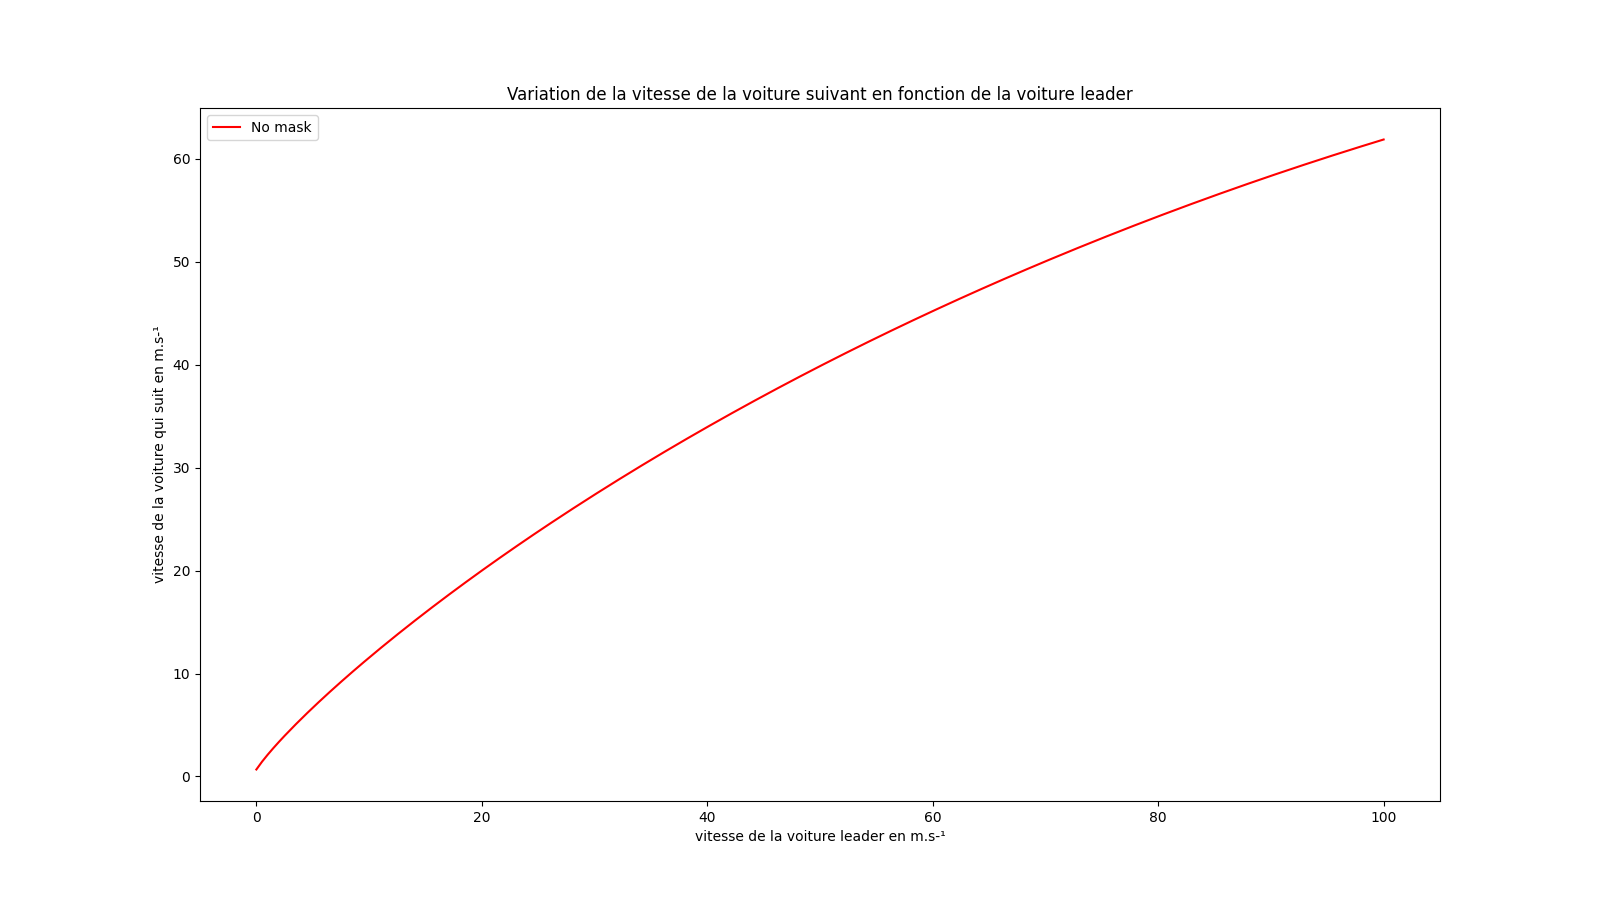
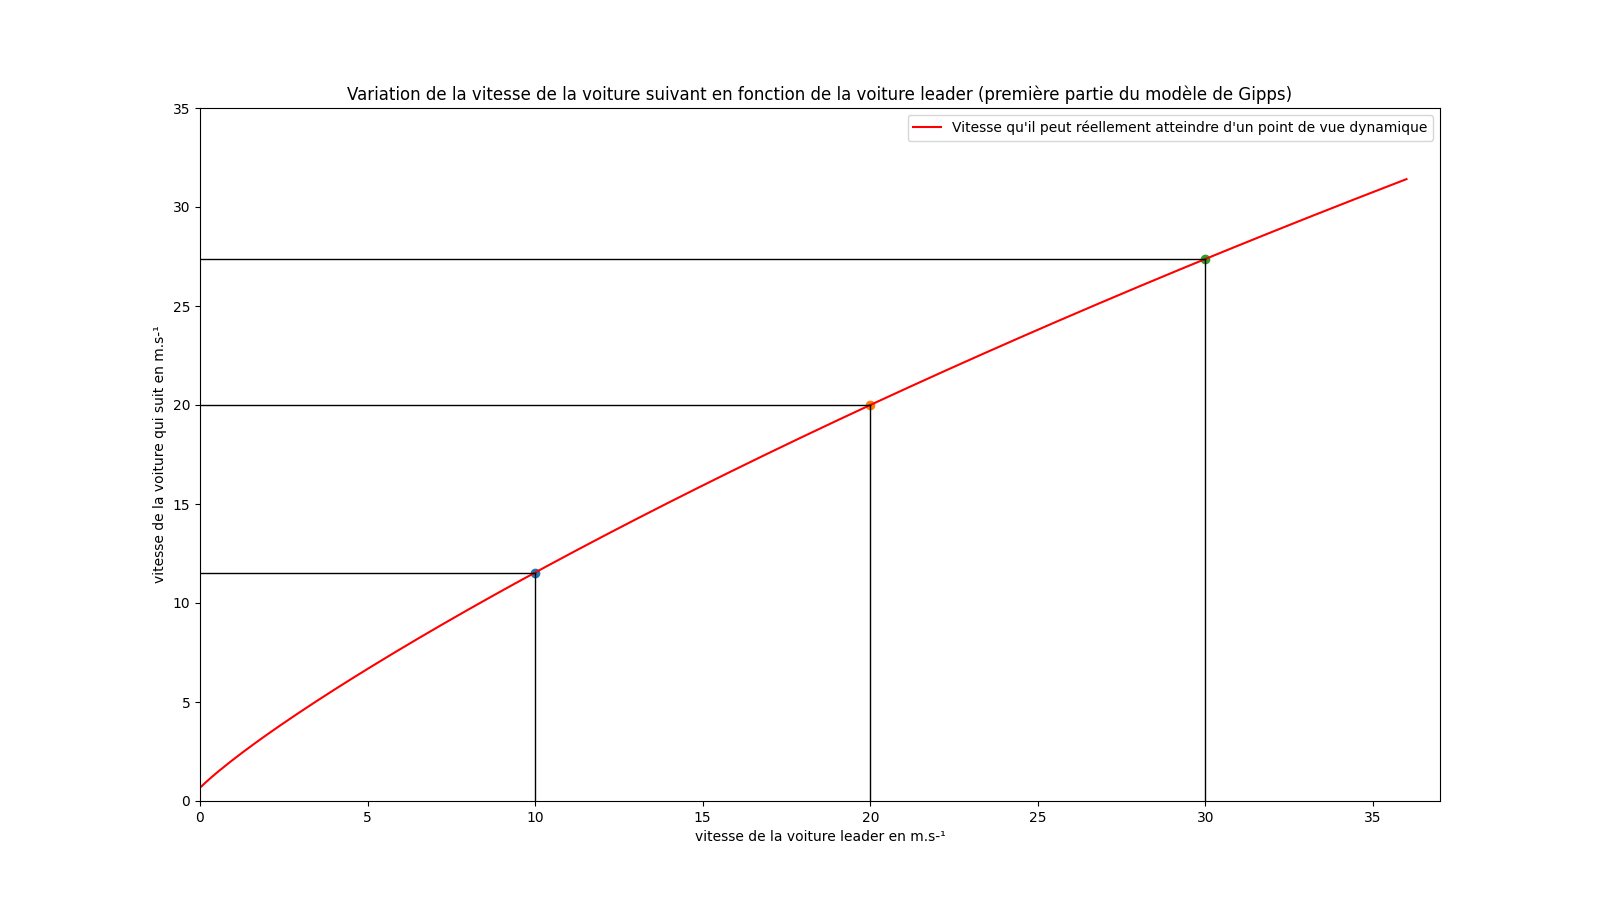
gipps

diff --git a/gipps/gippsV2.py b/gipps/gippsV2.py
@@ -2,7 +2,9 @@ import numpy as np
 import matplotlib.pyplot as plt
 import time
 from colour import Color
-import imagesV1 as images
+import imagesV2 as images
+
+fps = 4
 
 # ===========
 t0 = 0
@@ -43,7 +45,7 @@ def rainbow_gradient(num_colors):
 colors = rainbow_gradient(nbv)
 
 def px(tt):             # Avance au cours du temps
-    tt += 1
+    tt += 1/fps
     return tt
 
 def vitesseatt(vtold):       # Vitesse qu'il peut réellement atteindre d'un point de vue dynamique
@@ -59,23 +61,25 @@ def vitesseadop(vtold, xxpold):      # Vitesse qu'il est possible d'adopter en c
     return newvalue
 
 def vitessereelle(t, vtold, xxpold):    # Vitesse du véhicule
-    t+=t
+    
     if t==0:
         vtold[-1] = 0.1
     elif (t> 0) and (t<=10):     # Accélération du leader
-        a = (Vd - Vmin) / 10
+        a = (10 - Vmin) / 10
         vtleader = Vmin + a * t
         vtold[-1] = vtleader
     elif (t>= 16) and (t<=20):  # Leader freine
-        a = - (Vd - Vmin) / 10
-        vtleader = Vd + 2 * a * (t - 16)
+        a = - (10 - Vmin) / 10
+        vtleader = 10 + 2 * a * (t - 16)
         vtold[-1] = vtleader
-    elif (t>= 20) and (t<=30):  # Accélération du leader
+    elif (t> 20) and (t<=29):  # Accélération du leader
         a = (Vd - Vmin) / 10
-        vtleader = Vmin + a * (t-20)
+        vtleader = Vmin + a * (t-19)
         vtold[-1] = vtleader
+    elif (t> 29) and (t<=40):  # Accélération du leader
+        vtold[-1] = 20
     else:                   # Leader avance normalement
-        vtold[-1] = Vd
+        vtold[-1] = 10  
     
     vatt = vitesseatt(vtold)
     vadop = vitesseadop(vtold, xxpold)
@@ -116,11 +120,11 @@ while(t<tf):
     plt.ylabel('vitesse en m.s-¹')
     plt.title('Vitesse maximale désirée\nvitesse du leader : ' + str(Vd) + 'm.s-¹\ndistance entre deux voitures : ' + str(np.diff(xxpold)) + 'm\n\nTemps : ' + str(t))
     plt.draw()
-    plt.savefig('gipps/result/' + str(t)+'.png', transparent=True)
-    plt.pause(0.1)
-    t += dt/4
+    plt.savefig('gipps/result/' + str(int(t * fps))+'.png', transparent=True)
+    # plt.pause(0.1)
+    t += dt/fps
     xxold = xx.copy()
     xxpold = xxp.copy()
     vtold = vt.copy()
 
-images.merge()
+images.merge(fps)

diff --git a/pipes/dist sécurité.py b/pipes/dist sécurité.py
@@ -1,5 +1,6 @@
 import numpy as np
 import matplotlib.pyplot as plt
+import matplotlib.ticker as ticker
 
 vt = 1.25  # 4,5 km/h
 Umin = 1  # vitesse m/s
@@ -10,20 +11,54 @@ t = np.linspace(0, 15, 400)
 def vitesse(t):
     a = np.where(t <= 10, (Umax - Umin) / 10, - (Umax - Umin) / 10)
     vt = np.where(t <= 10, Umin + a * t, Umax + 2 * a * (t - 10))
+    print('vt: ', vt)
     return vt
 
 
 def security(t):
     vt = vitesse(t)
+    # ici la vitesse est encore en m/s
+    miles_per_meter = 0.000621371
+    seconds_per_hour = 3600
+    vt = vt * miles_per_meter * seconds_per_hour
     dist = Wm * (1 + (vt/(16.1/3.6)))
     # print(dist)
     return dist
 
-plt.figure(figsize=[16, 9])
-plt.xlim([-1,16])
-plt.xlabel('temps (s)')
-plt.ylabel('distance de sécurité (m)')
-plt.plot(t, security(t))
+# plt.figure(figsize=[16, 9])
+# plt.xlim([-1,16])
+# plt.xlabel('temps (s)')
+# plt.ylabel('Distance de sécurité en m et Vitesse en m/s')
+# plt.plot(t, security(t), label='Distance de sécurité')
+# plt.plot(t, vitesse(t), label='Vitesse de la voiture leader')
+# plt.legend()
+# plt.savefig('pipes/dist sécurités.png')
+# plt.draw()
+# plt.pause(5)
+
+
+fig, ax1 = plt.subplots(figsize=[16, 9])
+ax1.set_xlim([-1, 16])
+ax1.set_xlabel('temps (s)')
+ax1.set_ylabel('Distance de sécurité en m', color='b')
+ax1.plot(t, security(t), label='Distance de sécurité', color='b')
+ax1.tick_params(axis='y', labelcolor='b')
+
+ax2 = ax1.twinx()
+ax2.set_ylabel('Vitesse de la voiture leader en m/s', color='r')
+vitesse_data = vitesse(t)
+ax2.plot(t, vitesse_data, label='Vitesse de la voiture leader', color='r')
+ax2.tick_params(axis='y', labelcolor='r')
+
+
+ax1.set_ylim(-1, 100)
+ax2.set_ylim(-1, 100)
+
+ax1.yaxis.set_major_locator(ticker.LinearLocator(numticks=10))
+ax2.yaxis.set_major_locator(ticker.LinearLocator(numticks=10))
+
+plt.title(label='Variation de la distance de sécurité en fonction de la vitesse du leader selon le modèle de Pipes')
+fig.legend(loc='upper right')
 plt.savefig('pipes/dist sécurités.png')
 plt.draw()
 plt.pause(5)

diff --git a/gipps/graph.py b/gipps/graph.py
@@ -11,12 +11,12 @@ Tr = 2/3 + (2/3)/2 # temps de réaction + sûreté                 (= tau + θ =
 # B supposé égal à Bn-1 (si pas égal alors amplifications ??)
 
 
-vv = np.linspace(0, 100, 200)
+vv = np.linspace(0, 36, 200)
 
 def vitesseatt(vv):       # Vitesse qu'il peut réellement atteindre d'un point de vue dynamique
     value = vv + 2.5 * An * Tr * ( 1 - (vv/Vd) ) * np.sqrt( ( 0.025 + (vv/Vd) ))
     return value
-    
+
 
 def vitesseadop(vv):      # Vitesse qu'il est possible d'adopter en connaissant les contraintes de sécurité liées à la présence du véhicule leader
     value = 1
@@ -27,17 +27,26 @@ def vitessereelle(vv):      # Vitesse maximale désirée
     vadop = vitesseadop(vv)
     return min(vatt, vadop)
 
+def plotter(nb):
+    plt.plot([0,nb],[vitesseatt(nb), vitesseatt(nb)], color='k', linestyle='-', linewidth=1)
+    plt.plot([nb, nb],[0, vitesseatt(nb)], color='k', linestyle='-', linewidth=1)
+    plt.scatter(nb, vitesseatt(nb))
+
 plt.figure(figsize=[16,9])
+plt.xlim([0, 37])
+plt.ylim([0, 35])
 
-
-plt.plot(vv, vitesseatt(vv), '-', color='red', label='No mask')
+plt.plot(vv, vitesseatt(vv), '-', color='red', label="Vitesse qu'il peut réellement atteindre d'un point de vue dynamique")
 # plt.plot(vv, vitesseadop(vv), '-', color='green', label='No mask')
 
+plotter(10)
+plotter(20)
+plotter(30)
 
 plt.legend()
-plt.title('Variation de la vitesse de la voiture suivant en fonction de la voiture leader')
+plt.title('Variation de la vitesse de la voiture suivant en fonction de la voiture leader (première partie du modèle de Gipps)')
 plt.xlabel('vitesse de la voiture leader en m.s-¹')
 plt.ylabel('vitesse de la voiture qui suit en m.s-¹')
 plt.savefig('gipps/graph.png')
-plt.draw()  
+plt.draw()
 plt.pause(4)

diff --git a/gipps/imagesV2.py b/gipps/imagesV2.py
@@ -1,0 +1,42 @@
+from PIL import Image
+import os
+import shutil
+
+try:os.remove('gipps/merged.png')
+except:pass
+
+def merge_images(overlay_folder, output_path, fps):
+    overlay_path = f"{overlay_folder}/1.png"
+    overlay = Image.open(overlay_path)
+    result_width, result_height = overlay.size
+    result = Image.new('RGB', (result_width, result_height), color=(255, 255, 255))
+    x, y = 0, 0
+    for i in range(1,40*fps):
+        overlay_path = f"{overlay_folder}/{i}.png"
+        overlay = Image.open(overlay_path)
+        result.paste(overlay, (x, y), overlay)
+    result.save(output_path)
+
+def detrf(folder_path):
+    try:
+        if os.path.exists(folder_path):
+            shutil.rmtree(folder_path)
+            print(f"Folder '{folder_path}' successfully deleted.")
+        else:
+            print(f"Folder '{folder_path}' does not exist.")
+
+        try:
+            os.makedirs(folder_path)
+            print(f"Folder '{folder_path}' successfully created.")
+        except OSError as e:
+            print(f"Error creating folder: {e}")
+
+    except OSError as e:
+        print(f"Error deleting folder: {e}")
+
+def merge(fps):
+    overlay_folder = "gipps/result"
+    output_path = "gipps/merged.png"
+    merge_images(overlay_folder, output_path, fps)
+    detrf('gipps/result')
+    print('merge done')

diff --git a/gipps/imagesV1.py b/gipps/imagesV1.py
@@ -1,0 +1,42 @@
+from PIL import Image
+import os
+import shutil
+
+try:os.remove('gipps/merged.png')
+except:pass
+
+def merge_images(overlay_folder, output_path):
+    overlay_path = f"{overlay_folder}/1.png"
+    overlay = Image.open(overlay_path)
+    result_width, result_height = overlay.size
+    result = Image.new('RGB', (result_width, result_height), color=(255, 255, 255))
+    x, y = 0, 0
+    for i in range(1,40):
+        overlay_path = f"{overlay_folder}/{i}.png"
+        overlay = Image.open(overlay_path)
+        result.paste(overlay, (x, y), overlay)
+    result.save(output_path)
+
+def detrf(folder_path):
+    try:
+        if os.path.exists(folder_path):
+            shutil.rmtree(folder_path)
+            print(f"Folder '{folder_path}' successfully deleted.")
+        else:
+            print(f"Folder '{folder_path}' does not exist.")
+
+        try:
+            os.makedirs(folder_path)
+            print(f"Folder '{folder_path}' successfully created.")
+        except OSError as e:
+            print(f"Error creating folder: {e}")
+
+    except OSError as e:
+        print(f"Error deleting folder: {e}")
+
+def merge(fps):
+    overlay_folder = "gipps/result"
+    output_path = "gipps/merged.png"
+    merge_images(overlay_folder, output_path)
+    detrf('gipps/result')
+    print('merge done')

diff --git a/modelv.py b/modelv.py
@@ -53,7 +53,6 @@ while(t<tf):
     xx = position(xxold, vt)
     # color = ['#ff0000', '#ff5300', '#ffa500', '#ffd200', '#ffff00', '#80c000', '#008000', '#004080', '#0000ff', '#2600c1', '#4b0082']
     plt.scatter(xx, vt)
-    print(xx)
     plt.scatter(xx, y, c=colors)
     plt.plot([0,20],[1.25, 1.25], color='k', linestyle='-', linewidth=1)
     plt.xlabel('distance w  en m')
